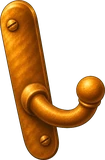
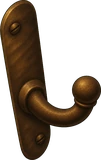
Kuke: nova perspektiva, manje, šest u nizu
Claude-Session: https://claude.ai/code/session_01GMM3Rnq6i1o8tZEuJzXhvg

diff --git a/js/wall-hooks.js b/js/wall-hooks.js
@@ -3,12 +3,12 @@
 (function(){
 'use strict';
 if(window.CooksterWallHooks)return;
-var HOOKS=[{x:106,y:314},{x:84,y:360},{x:61,y:406},{x:38,y:452}];
-var H=46;
+var HOOKS=[{x:110,y:318},{x:97,y:348},{x:84,y:378},{x:71,y:408},{x:58,y:438},{x:45,y:468}];
+var H=34;
 function build(){
   var sc=document.getElementById('scene');if(!sc||sc.querySelector('.wall-hook'))return;
   HOOKS.forEach(function(h){
-    var i=document.createElement('img');i.className='wall-hook';i.draggable=false;i.src='assets/ui/wall/kuka.webp?v=1';i.alt='';
+    var i=document.createElement('img');i.className='wall-hook';i.draggable=false;i.src='assets/ui/wall/kuka.webp?v=2';i.alt='';
     i.style.cssText='position:absolute;pointer-events:none;z-index:3;height:'+H+'px;left:'+(h.x-H*.2)+'px;top:'+(h.y-H*.12)+'px;filter:drop-shadow(1px 2px 1.5px rgba(30,12,0,.55))';
     sc.appendChild(i);
   });

diff --git a/index.html b/index.html
@@ -266,7 +266,7 @@
 <script src="js/recorder.js?v=2"></script>
 <script src="js/damper.js?v=8"></script>
 <script src="js/tutorial.js?v=2"></script>
-<script src="js/wall-hooks.js?v=2"></script>
+<script src="js/wall-hooks.js?v=4"></script>
 <div id="buildStamp" data-tool-ui="1" style="position:fixed;left:6px;bottom:3px;z-index:99999;font:10px/1 system-ui,sans-serif;color:#fff;opacity:.4;pointer-events:none;text-shadow:0 1px 2px #000">verzija 06.11. · meso 8</div>
 </body>
 </html>

diff --git a/NOTES.md b/NOTES.md
@@ -1308,4 +1308,4 @@ Završi dan (`js/day-report.js`, `CooksterDayReport`): dugme „🌙 Završi dan
 - Zuti sjaj trake zadnje koriscenih: stalni svetli panel iza 3. polja obrisan (id u REMOVED_SIDE_BOTTOM_UI_INSTANCE_IDS); sada sjaj (`.cookster-slot-glow`, slika osvetljeni_kvadratni_panel.png kao dete dugmeta) ide na dugme koje se klikne dok ta stvar stoji u ruci i nestaje kad se spusti (recent-items.js 5, game.js 3.291, ui-bottom-buttons.js 2.86; centerGlow ukljucen samo pri pritisku vise ne postoji).
 - Donja traka zadnje koriscenih: razmera podignuta sa 60% na 82% (polje ~62 px kao dugmad u meniju levo ~60-67 px; panel 423x239). `TRAY_SCALE` u game.js 3.292; flagovi `cookster.tray-scale.ui.v1` / `.buttons.v1` sada cuvaju poslednju primenjenu razmeru (broj), a sacuvani rasporedi se preracunavaju odnosom nove i stare razmere (ui-bottom-buttons.js 2.87). Provereno 4 slucaja (nov, original, 60%, 82%): isti raspored.
 - Uputstvo (`js/tutorial.js`, Baba Savka): poruke izlaze u okviru gore, animirana strelica (gore-dole) pokazuje gde da se klikne; koraci se prebacuju sami kad igrac uradi trazeno. Prvi deo: drveno polje (hover) -> pijaca -> paradajz -> "Kupi sve". Pali se sa `?uputstvo` u adresi (jos nije ukljuceno za sve). Stanje `cookster.tutorial.v1`. Dalje: kese/seckanje/cinija/so i ulje, tikvice, gulas.
-- Kuke na levom zidu (`js/wall-hooks.js`, slika `assets/ui/wall/kuka.webp`): 4 mesingane kuke niz dijagonalu zida ispod prozora (koordinate u HOOKS). Za sada samo ukras; sledece kese sa pijace koje vise na njima.
+- Kuke na levom zidu (`js/wall-hooks.js`, slika `assets/ui/wall/kuka.webp`): 6 brondzanih kuka (34 px) niz dijagonalu zida ispod prozora (koordinate u HOOKS). Za sada samo ukras; sledece kese sa pijace koje vise na njima.
